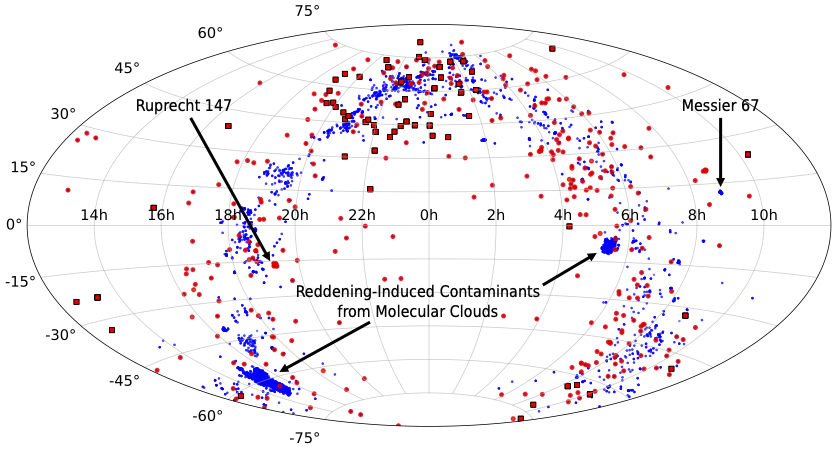
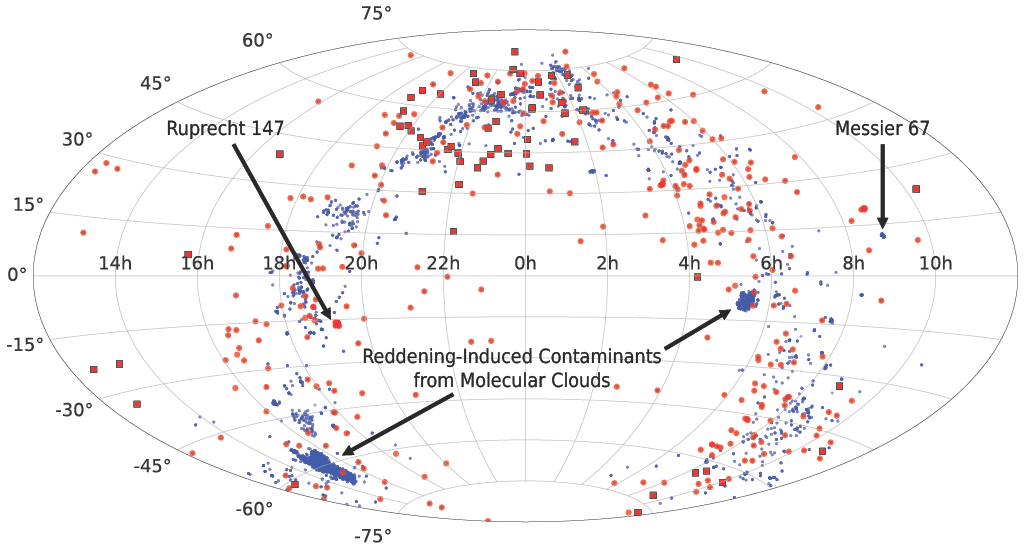
skyplot_improved

diff --git a/index.html b/index.html
@@ -193,29 +193,19 @@
 
 
 
-							<div class="row">
-								<div class="col-12">
-									<article class="item">
-							
-										<a href="images/skyplot.pdf"
-										   target="_blank"
-										   class="image fit">
-							
-											<img src="images/skyplot.png"
-												 alt="Sky distribution of nearby open clusters" />
-							
-										</a>
-							
-										<header>
-											<h3>Sky Distribution of Nearby Open Clusters</h3>
-										</header>
-							
-									</article>
-								</div>
-							</div>
+
+							<!-- Sky Plot Figure -->
+							<figure class="skyplot-figure">
+								<a href="images/skyplot.pdf" target="_blank">
+									<img
+										src="images/skyplot.png"
+										alt="Sky distribution of nearby open clusters"
+									>
+								</a>
+							</figure>
+
 							
 							
-<br>
 							<p>
 								In addition to well-defined open clusters, ROC350 includes several widely dispersed, 
 								less understood stellar populations. The largest of these is the Ursa Majoris Corona, 

diff --git a/assets/css/main.css b/assets/css/main.css
@@ -2774,3 +2774,28 @@ input, select, textarea {
 }
 
 
+
+/* Sky Plot Figure */
+
+.skyplot-figure {
+    max-width: 1000px;
+    margin: 2em auto;
+    padding: 0;
+    background: transparent;
+}
+
+.skyplot-figure img {
+    display: block;
+    width: 100%;
+    height: auto;
+    margin: 0;
+    padding: 0;
+}
+
+.skyplot-figure figcaption {
+    background: transparent;
+    color: white;
+    font-size: 0.65em;
+    line-height: 1.4;
+    margin-top: 10px;
+}
